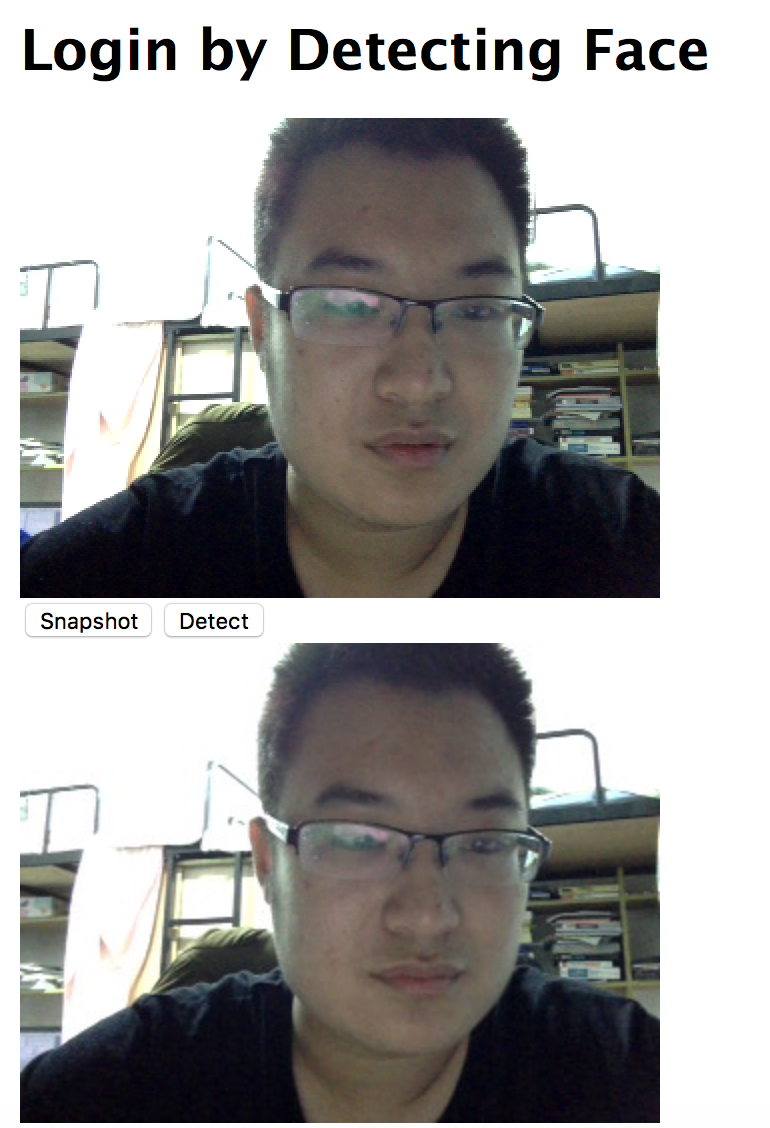
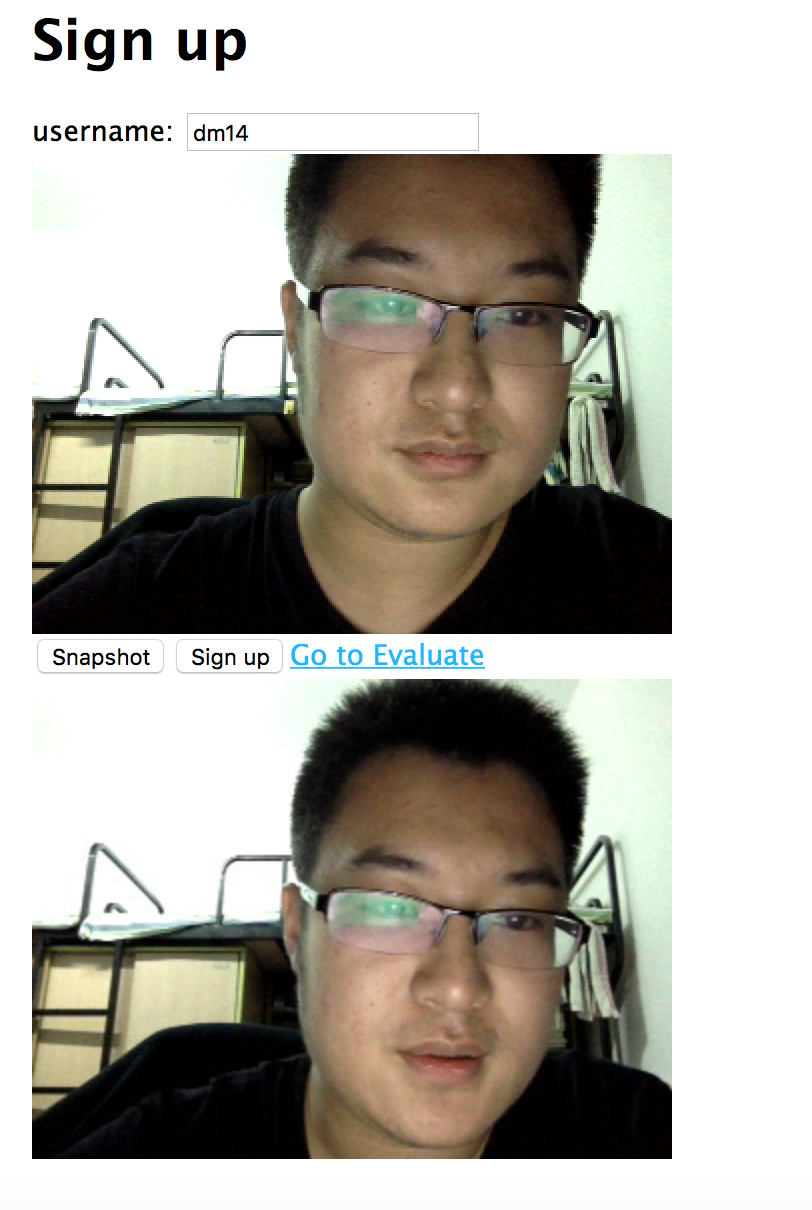
doc

diff --git a/README.md b/README.md
@@ -1,12 +1,17 @@
 #二手车估价作业文档
 ##功能及截图
 ###人脸识别
+####登录功能
 人脸识别功能通过在网页上开启摄像头，选择合适的位置照相。这里使用了历史悠久、兼容性好的flash库进行显示。
-![](https://raw.githubusercontent.com/Sleepychord/second_hand_car_evaluation_homework/master/pic/1.png)
+![](https://raw.githubusercontent.com/Sleepychord/second_hand_car_evaluation_homework/master/pic/3.png)
 点击detect后会使用微软的API进行人脸识别。
 
-将会有弹出窗告知识别结果，如果没能发现人脸需要重新识别。识别成功后后台将年龄等信息记录入数据库（提高功能1），并分配session_id，同时前端显示进入车辆识别页面的超链接。
+将会有弹出窗告知识别结果，如果没能发现人脸需要重新识别，如果发现并且从注册用户中找到比较像的人脸后会自动登录。，并分配session_id，同时前端显示进入车辆识别页面的超链接。
+####注册功能
+注册界面与登录类似，只是需要注册的用户名和人脸。
+![](https://raw.githubusercontent.com/Sleepychord/second_hand_car_evaluation_homework/master/pic/1.png)
 ### 二手车估价
+首先，页面会有一行显示当前登录用户名。
 利用微软云平台上训练好的API进行识别，这里只要求输入作为Feature的那些列的数据。
 ![](https://raw.githubusercontent.com/Sleepychord/second_hand_car_evaluation_homework/master/pic/2.png)
 
